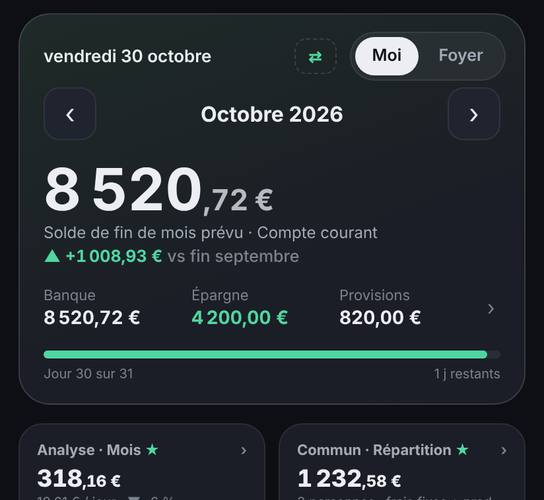
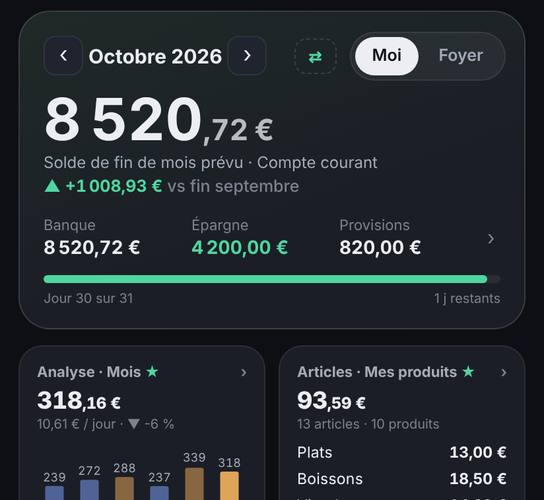
β Captures de la vitrine refaites avec la nouvelle interface
Claude-Session: https://claude.ai/code/session_01DFHRDgPHTA6tdzp535Df1t

diff --git a/beta/index.html b/beta/index.html
@@ -5,7 +5,7 @@
   <meta name="viewport" content="width=device-width, initial-scale=1, viewport-fit=cover" />
   <meta name="theme-color" content="#13151b" />
   <title>Tickets β</title>
-  <meta name="build" content="06/11 11:37" />
+  <meta name="build" content="06/11 12:03" />
   <link rel="manifest" href="./manifest.webmanifest" />
   <style>
     :root{

diff --git a/tests/vitrine.py b/tests/vitrine.py
@@ -50,8 +50,8 @@ with sync_playwright() as p:
     def snap(name, y, sel=None):
         if sel: y=pg.evaluate("s=>{ const e=document.querySelector(s); return e ? e.getBoundingClientRect().top+window.scrollY : 0; }", sel)+y
         f=os.path.join(TMP, name+".png"); pg.screenshot(path=f, full_page=True); crop(f, name, y)
-    snap("accueil", 110)
-    pg.locator('#nav .navi[data-view="depenses"]').click(); pg.wait_for_timeout(500)
+    snap("accueil", -8, ".dash-hero")
+    pg.locator('#nav .navi[data-view="compte"]').click(); pg.wait_for_timeout(500); pg.locator('.cpsub[data-cp="tk"]').click(); pg.wait_for_timeout(500)   # les tickets sont dans Opérations
     pg.locator('.entry[data-id="901"]').first.click(); pg.wait_for_timeout(700); snap("scan", 95)
     pg.locator("#cancel").click(); pg.wait_for_timeout(400)
     pg.locator('#nav .navi[data-view="depenses"]').click(); pg.wait_for_timeout(500); pg.locator('.dpsub', has_text="Analyse").first.click(); pg.wait_for_timeout(600)

diff --git a/JOURNAL.md b/JOURNAL.md
@@ -19,7 +19,7 @@ Après chaque modification, dans le même commit :
 ## État actuel (31/10/2026)
 
 **Versions**
-- β web : `beta/index.html`, étiquette `06/11 11:37`, environ 9 800 lignes.
+- β web : `beta/index.html`, étiquette `06/11 12:03`, environ 9 800 lignes.
 - APK de test « Tickets Perso » (avec la Bourse) et « Tickets Store » (sans la Bourse), release `apk-beta`, recompilés quand la β ou l'appli Android change.
   - **Perso** : charge la β en ligne (chaque correction arrive tout de suite) et en garde une copie : sans réseau, elle ouvre la dernière version, avec les mêmes données.
   - **Store** : appli complète, la β est dans l'APK (avec le lecteur PDF et l'inflation INSEE du moment) ; aucune connexion pour l'usage normal, mises à jour par le Store.
@@ -210,6 +210,7 @@ Après chaque modification, dans le même commit :
 
 ### 06/11
 
+- **Captures de la vitrine refaites** (`python3 tests/vitrine.py`) avec la nouvelle interface : accueil (tableau de bord, recadré sur la carte du haut), fiche d'un ticket (ouverte depuis Opérations › Tickets), analyse, qui doit quoi, factures, À venir (À payer bientôt avec les dates), relevé, foyer. Données inventées.
 - **Affichage simple / détaillé** (« tu peux faire la partie affichage détaillé ») : Menu › Réglages › Affichage (clé `affichage` sur le téléphone, `affDet()`, classe `det` sur `body`). Détaillé : Opérations avec la recherche ouverte, les filtres Tickets / Frais fixes / Virements (`tk`, `fx`, `vr`), des lignes plus serrées et le bouton Liquide toujours là ; tableau de bord à 4 graphiques par page avec leurs chiffres (pas d'ajustement à l'écran, la page défile) ; Budget avec les cases Budgets / Dépassés / Reste ; tout « À payer bientôt » ; Foyer avec le détail et les produits partagés ouverts ; fiche d'un ticket avec toutes les catégories et les options dépliées. Simple reste l'affichage par défaut. Guide (nouvelle partie), test t135, t115 (12 et 11 parties).
 - **Refonte des autres onglets, d'après la maquette validée** (« tu peux continuer la refonte des autres onglets ») :
   - **Opérations** : la grande carte des comptes est remplacée par une ligne « ● Compte courant ▾ » + le mois (‹ oct. 2026 ›) sous les sous-onglets (`acctRowHTML`) ; toucher le compte ouvre la liste des comptes par personne avec leur solde, « Tous les comptes », Ajouter / Gérer (`acctSheet`). Plus de « ＋ Ajouter » (le « + » de la barre ajoute sur le compte affiché, `plusDo("man")`), recherche repliée derrière une loupe (`#opsQBtn`, `state.cptQOpen`), « 💶 Liquide » seulement s'il y en a ; « Argent liquide » et « Reprendre des virements » passent dans la roue du compte.
